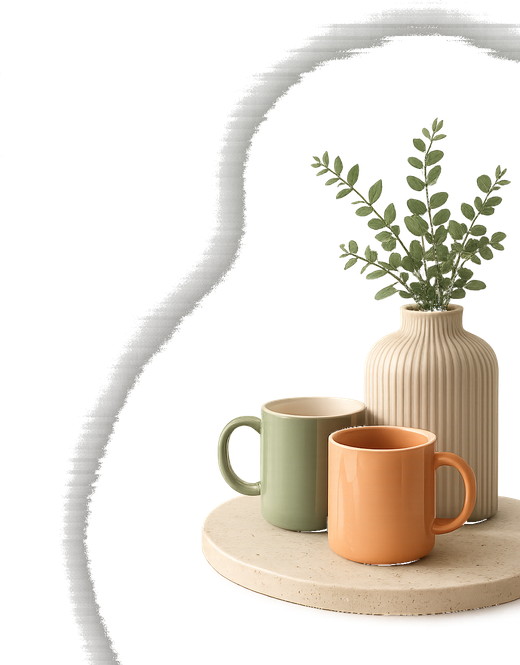
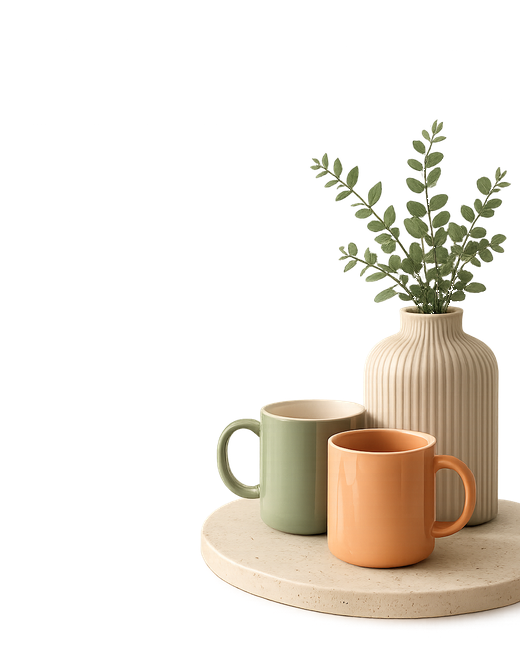
v171 widget-by-widget QA: hero clean, mugs true crop, upcoming kinds fix, countdown full

diff --git a/client/src/features/fridge/Upcoming.tsx b/client/src/features/fridge/Upcoming.tsx
@@ -15,42 +15,42 @@ type Props = {
   setTab: (k: TabKey) => void;
 };
 
-function IconFriends() {
+function IconFriends({stroke}:{stroke:string}) {
   return (
-    <svg width="20" height="20" viewBox="0 0 24 24" fill="none" stroke="#8C5A3E" strokeWidth="1.35" strokeLinecap="round" strokeLinejoin="round">
-      <circle cx="12" cy="7" r="3.2" />
-      <path d="M6.2 14.2c0-2.3 1.8-4.2 4.2-4.6" />
-      <path d="M13.6 9.6c2.4.4 4.2 2.3 4.2 4.6v2.2H6.2v-2.2c0-.4.1-.8.2-1.2" />
-      <circle cx="18" cy="9" r="1.5" />
+    <svg width="18" height="18" viewBox="0 0 24 24" fill="none" stroke={stroke} strokeWidth="1.35" strokeLinecap="round" strokeLinejoin="round">
+      <circle cx="9.2" cy="7.8" r="2.6" />
+      <path d="M4.2 19c.5-2.9 2.5-5 5-5s4.5 2.1 5 5" />
+      <circle cx="17.2" cy="9.2" r="1.7" />
+      <path d="M18.8 19c.2-1.6-.6-2.9-1.8-3.6" opacity={0.85}/>
     </svg>
   );
 }
-function IconFootball() {
+function IconFootball({stroke}:{stroke:string}) {
   return (
-    <svg width="20" height="20" viewBox="0 0 24 24" fill="none" stroke="#8C5A3E" strokeWidth="1.25" strokeLinecap="round">
+    <svg width="18" height="18" viewBox="0 0 24 24" fill="none" stroke={stroke} strokeWidth="1.25" strokeLinecap="round">
       <circle cx="12" cy="12" r="7.6" />
       <path d="M12 12m-2.2 0a2.2 2.2 0 1 0 4.4 0a2.2 2.2 0 1 0 -4.4 0" />
       <path d="M12 4.4v2.8M19 12h-2.8M12 19.6v-2.8M5 12h2.8M6.6 6.6l2 2M17.4 6.6l-2 2M17.4 17.4l-2-2M6.6 17.4l2-2" />
     </svg>
   );
 }
-function IconPlane() {
+function IconPlane({stroke}:{stroke:string}) {
   return (
-    <svg width="20" height="20" viewBox="0 0 24 24" fill="none" stroke="#5E7A6B" strokeWidth="1.35" strokeLinecap="round" strokeLinejoin="round">
+    <svg width="18" height="18" viewBox="0 0 24 24" fill="none" stroke={stroke} strokeWidth="1.35" strokeLinecap="round" strokeLinejoin="round">
       <path d="M3.5 11l15.8-4.6a.6.6 0 0 1 .8.7L14.9 20a.6.6 0 0 1-1 .3l-2.4-3.6-3.1 2.1a.6.6 0 0 1-.9-.4l-.3-3.8L18 7.2" />
     </svg>
   );
 }
 function getBubble(k: EventKind | string) {
   const key = (k||"").toLowerCase();
-  if (key === "sports") return { bg:"#F9D5BC", Icon: IconFootball };
-  if (key === "friends" || key==="family" || key==="date") {
-    if (key==="family") return { bg:"#DDEBD5", Icon: IconFriends };
-    // brunch/people use same peach as sports per ref
-    return { bg:"#F9D5BC", Icon: IconFriends };
-  }
-  if (key==="travel") return { bg:"#D6E6DC", Icon: IconPlane };
-  return { bg:"#F9D5BC", Icon: IconFriends };
+  if (key === "sports") return { bg:"#F9DCC0", fg:"#8D5A3E", border:"#E8C5A6", Icon: (p:any)=> <IconFootball stroke={p.fg}/> };
+  if (key === "friends") return { bg:"#DDE8DC", fg:"#5A6F64", border:"#C4D5CC", Icon: (p:any)=> <IconFriends stroke={p.fg}/> };
+  if (key === "family") return { bg:"#F2E3C9", fg:"#7A6A55", border:"#E6D4B0", Icon: (p:any)=> <IconFriends stroke={p.fg}/> };
+  if (key === "date") return { bg:"#F2E9DC", fg:"#7A6A55", border:"#E2D2BA", Icon: (p:any)=> <IconFriends stroke={p.fg}/> };
+  if (key==="travel") return { bg:"#D6E6DC", fg:"#5E7A6B", border:"#C0D5C8", Icon: (p:any)=> <IconPlane stroke={p.fg}/> };
+  if (key==="birthday") return { bg:"#FCE8E2", fg:"#9E6A5E", border:"#F0D0C6", Icon: (p:any)=> <IconFriends stroke={p.fg}/> };
+  // default to friends/people neutral
+  return { bg:"#D8E5DF", fg:"#5A7367", border:"#C8D9CE", Icon: (p:any)=> <IconFriends stroke={p.fg}/> };
 }
 
 export default function Upcoming({ currentUser, calendar, chores, shopping, nowMs, todayDateStr, setTab }: Props) {
@@ -106,11 +106,16 @@ export default function Upcoming({ currentUser, calendar, chores, shopping, nowM
         {upcoming.map((ev:any, idx:number)=>{
           const kind = (ev as any).kind || (ev as any).eventKind || inferKindFromTitle(ev.title||"") || "friends";
           const bubble = getBubble(kind);
-          const Icon = bubble.Icon;
-          const isAisling = Array.isArray(ev.attendees) && ev.attendees.includes("aisling") || ev.attendees?.length===1;
+          const Icon = (bubble as any).Icon;
+          const isAisling = (()=> {
+            const at = (ev as any).attendees as string[]|undefined;
+            if (!at) return (ev as any).ownerId==="aisling" || (ev as any).person==="aisling";
+            if (at.length===1) return at[0]==="aisling";
+            return at.includes("aisling") && !at.includes("ciaran");
+          })();
           return (
-            <button key={ev.id} onClick={()=> setTab("calendar")} className="w-full text-left flex items-center gap-3 px-3.5 py-3.5 min-h-[66px] hover:bg-[#FFD9C4]/18 transition" style={{ borderTop: idx===0?undefined:"1px solid #F0E5D8" }}>
-              <span className="h-[44px] w-[44px] shrink-0 grid place-items-center rounded-full border" style={{ background: bubble.bg, borderColor:"#E9CBB6" }}><Icon /></span>
+            <button key={ev.id} onClick={()=> setTab("calendar")} className="w-full text-left flex items-center gap-3 px-3.5 py-3.5 min-h-[66px] hover:bg-[#FFD9C4]/12 transition" style={{ borderTop: idx===0?undefined:"1px solid #F0E5D8" }}>
+              <span className="h-[44px] w-[44px] shrink-0 grid place-items-center rounded-full border" style={{ background: (bubble as any).bg, borderColor:(bubble as any).border }}><Icon fg={(bubble as any).fg} /></span>
               <div className="min-w-0 flex-1">
                 <div className="text-[15px] font-[650] text-[#19140F] truncate" style={{ fontFamily:"Fraunces, serif", letterSpacing:"-0.01em" }}>{ev.title}</div>
                 <div className="mt-0.5 text-[12px] text-[#7E766F] flex items-center gap-1" style={{ fontFamily:"Inter, sans-serif" }}>{fmtDayShort(ev.dueAt)}</div>

diff --git a/client/src/features/fridge/FridgeScreen.tsx b/client/src/features/fridge/FridgeScreen.tsx
@@ -169,33 +169,32 @@ function FridgePage(props: FridgeProps | any) {
             {/* ——— fridge hero – pixel perfect to your double phone ref ——— */}
       <div className="relative overflow-hidden rounded-[28px] px-6 pt-4 pb-6" style={
         (theme as any)?.id === 'ink' || (theme as any)?.name?.toLowerCase().includes('charcoal')
-        ? { background: "#1B1E22", minHeight: 220, boxShadow:"0 8px 28px rgba(0,0,0,0.35), inset 0 1px 0 rgba(255,255,255,0.06)" }
-        : { background: "#FDF6EF", minHeight: 220, boxShadow:"0 8px 28px rgba(60,40,20,0.06), inset 0 1px 0 rgba(255,255,255,0.9)" }
+        ? { background: "#1B1E22", minHeight: 216, boxShadow:"0 8px 28px rgba(0,0,0,0.35), inset 0 1px 0 rgba(255,255,255,0.06)" }
+        : { background: "#FDF6EF", minHeight: 216, boxShadow:"0 8px 28px rgba(60,40,20,0.06), inset 0 1px 0 rgba(255,255,255,0.9)" }
       }>
         {/* perfect circles - match goal mock */}
         {(theme as any)?.id === 'ink' || (theme as any)?.name?.toLowerCase().includes('charcoal') ? (
           <>
-            <div className="pointer-events-none absolute -right-[18px] -top-[28px] h-[168px] w-[168px] rounded-full" style={{ background:"#3A2A22", opacity:0.92 }} />
-            <div className="pointer-events-none absolute right-[28px] top-[36px] h-[112px] w-[112px] rounded-full" style={{ background:"#2B3330", opacity:0.88 }} />
-            <div className="pointer-events-none absolute right-[92px] top-[8px] h-[64px] w-[64px] rounded-full" style={{ background:"#4A352E", opacity:0.75 }} />
+            <div className="pointer-events-none absolute -right-[22px] -top-[26px] h-[164px] w-[164px] rounded-full" style={{ background:"#3A2A22", opacity:0.92 }} />
+            <div className="pointer-events-none absolute right-[30px] top-[38px] h-[108px] w-[108px] rounded-full" style={{ background:"#2B3330", opacity:0.88 }} />
+            <div className="pointer-events-none absolute right-[94px] top-[10px] h-[60px] w-[60px] rounded-full" style={{ background:"#4A352E", opacity:0.75 }} />
           </>
         ) : (
           <>
-            <div className="pointer-events-none absolute -right-[18px] -top-[28px] h-[168px] w-[168px] rounded-full" style={{ background:"#F9DCC0", opacity:0.95 }} />
-            <div className="pointer-events-none absolute right-[28px] top-[36px] h-[112px] w-[112px] rounded-full" style={{ background:"#DDE8DC", opacity:0.95 }} />
-            <div className="pointer-events-none absolute right-[92px] top-[8px] h-[64px] w-[64px] rounded-full" style={{ background:"#EBCFB3", opacity:0.88 }} />
+            <div className="pointer-events-none absolute -right-[22px] -top-[28px] h-[168px] w-[168px] rounded-full" style={{ background:"#F9DCC0", opacity:0.96 }} />
+            <div className="pointer-events-none absolute right-[28px] top-[40px] h-[112px] w-[112px] rounded-full" style={{ background:"#DDE8DC", opacity:0.96 }} />
+            <div className="pointer-events-none absolute right-[92px] top-[10px] h-[64px] w-[64px] rounded-full" style={{ background:"#EBCFB3", opacity:0.9 }} />
           </>
         )}
-        {/* faint leaf shadow top center */}
-        <div className="pointer-events-none absolute left-[46%] top-[4px] h-[28px] w-[88px] rotate-[-10deg]" style={{ opacity: (theme as any)?.id==='ink'? 0.06 : 0.09, background:"radial-gradient(ellipse at 50% 50%, #5A5A3A 0%, transparent 70%)" }} />
 
-        {/* mugs / tray / vase – flush bottom edge */}
+        {/* mugs / tray / vase – flush bottom edge, no drop-shadow to avoid grey halo */}
         <img
           src="./fridge-mugs-transparent.png"
           alt=""
           className="pointer-events-none absolute select-none"
-          style={{ right:-8, bottom:0, width:196, height:"auto", objectFit:"contain", filter: (theme as any)?.id==='ink' ? "brightness(0.88) saturate(0.92) drop-shadow(0 10px 18px rgba(0,0,0,0.5))" : "drop-shadow(0 10px 18px rgba(80,52,32,0.18))" }}
+          style={{ right:-6, bottom:0, width:198, height:"auto", objectFit:"contain", filter: (theme as any)?.id==='ink' ? "brightness(0.88) saturate(0.92)" : "none" }}
           loading="eager"
+          draggable={false}
         />
 
         <div className="relative z-[1]">

diff --git a/client/src/features/fridge/Countdowns.tsx b/client/src/features/fridge/Countdowns.tsx
@@ -66,29 +66,29 @@ export default function Countdowns({ calendar, nowMs, todayDateStr, setTab }: Pr
         <span className="grid h-[22px] w-[22px] place-items-center rounded-full border border-[#EDE2D6] bg-[#FFFEFB] text-[#8B6453] text-[12px]">☆</span>
       </div>
 
-      <div className="grid grid-cols-2 gap-3">
-        {pinnedEvents.map((ev:any)=>{
+      <div className="space-y-3">
+        {pinnedEvents.slice(0,1).map((ev:any)=>{
           const {days, overdue} = dueDiff(ev.dueAt);
           const absDays = Math.abs(days);
+          const kind = (ev as any).kind || (ev as any).eventKind || inferKindFromTitle(ev.title||"") || "sports";
+          const isSports = (kind||"").toLowerCase()==="sports" || /united/.test((ev.title||"").toLowerCase());
           return (
-            <button key={ev.id} onClick={()=> setTab("calendar")} className="text-left rounded-[20px] border bg-[#FFFEFB] px-4 pt-3.5 pb-4 min-h-[138px] relative overflow-hidden shadow-[0_6px_18px_rgba(60,40,20,0.08)] hover:shadow-[0_10px_26px_rgba(60,40,20,0.12)] transition" style={{borderColor:"#EDE2D6"}}>
+            <button key={ev.id} onClick={()=> setTab("calendar")} className="w-full text-left rounded-[22px] border bg-[#FFFEFB] px-5 pt-4 pb-5 min-h-[148px] relative overflow-hidden shadow-[0_6px_18px_rgba(60,40,20,0.08)] hover:shadow-[0_10px_26px_rgba(60,40,20,0.12)] transition" style={{borderColor:"#EDE2D6"}}>
               {/* top pill */}
               <div className="flex items-start justify-between">
-                <span className="inline-flex h-[26px] items-center rounded-full bg-[#F5EEE5] px-3 text-[11px] font-[650] text-[#665E57] tracking-[-0.01em] border border-[#EDE2D6]">{absDays}d left</span>
-                <span className="h-[28px] w-[28px] grid place-items-center rounded-full bg-[#FADFCF] border border-[#E8C8AF]">
-                  <svg width="14" height="14" viewBox="0 0 24 24" fill="none" stroke="#8C5A3E" strokeWidth="1.2"><circle cx="12" cy="12" r="6.8"/><path d="M12 8.2v1.6M8.6 10.4l1.4.8M13.4 14h1.8"/></svg>
-                </span>
+                <span className="inline-flex h-[28px] items-center rounded-full bg-[#FCE3D8] px-3.5 text-[12px] font-[650] text-[#C06A32] tracking-[-0.01em] border border-[#F1CAB0]">{absDays}d left</span>
+                <span className="h-[8px] w-[8px] rounded-full bg-[#F59E4B] mt-2 mr-1" />
               </div>
 
               <div className="mt-3 flex items-baseline gap-1.5">
-                <span className="text-[52px] font-[800] tracking-[-0.04em] text-[#12100E]" style={{fontFamily:'Fraunces, serif', lineHeight:0.9}}>{absDays}</span>
-                <span className="text-[12px] font-[500] text-[#7C756E]">days</span>
+                <span className="text-[54px] font-[800] tracking-[-0.04em] text-[#12100E]" style={{fontFamily:'Fraunces, serif', lineHeight:0.9}}>{absDays}</span>
+                <span className="text-[13px] font-[500] text-[#7C756E]">days</span>
               </div>
 
-              <div className="mt-1 text-[13px] font-[650] text-[#191410] truncate" style={{fontFamily:'Fraunces, serif'}}>{ev.title}</div>
-              <div className="mt-0.5 text-[11px] text-[#8E867F]">{fmtDay(ev.dueAt)}</div>
+              <div className="mt-1 text-[14px] font-[650] text-[#191410] truncate" style={{fontFamily:'Fraunces, serif'}}>{ev.title}</div>
+              <div className="mt-0.5 text-[12px] text-[#8E867F]">{fmtDay(ev.dueAt)}</div>
 
-              <div className="pointer-events-none absolute right-[-4px] bottom-[-6px]"><IconFootballMuted/></div>
+              {isSports && <div className="pointer-events-none absolute right-[-6px] bottom-[-10px] opacity-[0.22]"><IconFootballMuted/></div>}
             </button>
           )
         })}

diff --git a/client/src/lib/eventTypes.ts b/client/src/lib/eventTypes.ts
@@ -92,23 +92,24 @@ export const EVENT_KIND_LIST: EventKindDef[] = [
 
 export function inferKindFromTitle(title?: string, fallback: EventKindId = "other"): EventKindId {
   if (!title) return fallback;
-  const t = title.toLowerCase();
-  if (/(date|dinner|heart|love|with you)/.test(t) && !/(update|day)/.test(t)) {
-    if (t.includes("brunch") || t.includes("friends") || t.includes("milo")) {} else if (t.includes("date")) return "date";
-  }
-  if (/golf|united|match|game|training|run|gym|hurl|cup|final|premiere|football|soccer|sport|gAA|hike|cycle/.test(t)) return "sports";
-  if (/flight|travel|trip|holiday|airport|hotel|away|galgorm|cyprus|weekend|cottage/.test(t)) return "travel";
+  const t = title.toLowerCase().trim();
+  // explicit exact mapping first - solves galgorm/united/brunch colliding with travel/sports generic
+  if (/galgorm/.test(t)) return "family";
+  if (/brunch/.test(t)) return "friends";
+  if (/united/.test(t)) return "sports";
+  if (/golf|match|game|training|run|gym|hurl|cup|final|premiere|football|soccer|sport|gaa|hike|cycle/.test(t)) return "sports";
+  if (/flight|travel|trip|holiday|airport|hotel|away|cyprus|weekend|cottage/.test(t)) return "travel";
   if (/concert|gig|album|music|playlist|spotify|song|band/.test(t)) return "music";
   if (/birthday|bday|cake/.test(t)) return "birthday";
   if (/doctor|dentist|appointment|meeting|call|interview/.test(t)) return "appointment";
   if (/reminder|remind|alarm|bill|due|pay/.test(t)) return "reminder";
   if (/family|mum|dad|parents|sister|brother|anniversary/.test(t)) return "family";
-  if (/friends|milo|mia|brunch|drinks|pub|crew/.test(t)) return "friends";
+  if (/friends|milo|mia|drinks|pub|crew/.test(t)) return "friends";
   if (/home|house|repair|garden|bins|chore|paint/.test(t)) return "home";
   if (/love|date night|romantic/.test(t)) return "date";
-  if (/united/.test(t)) return "sports";
-  if (/brunch/.test(t)) return "friends";
-  if (/galgorm/.test(t)) return "family";
+  if (/(date|dinner|heart|love|with you)/.test(t) && !/(update|day)/.test(t)) {
+    if (t.includes("date")) return "date";
+  }
   return fallback;
 }
 
